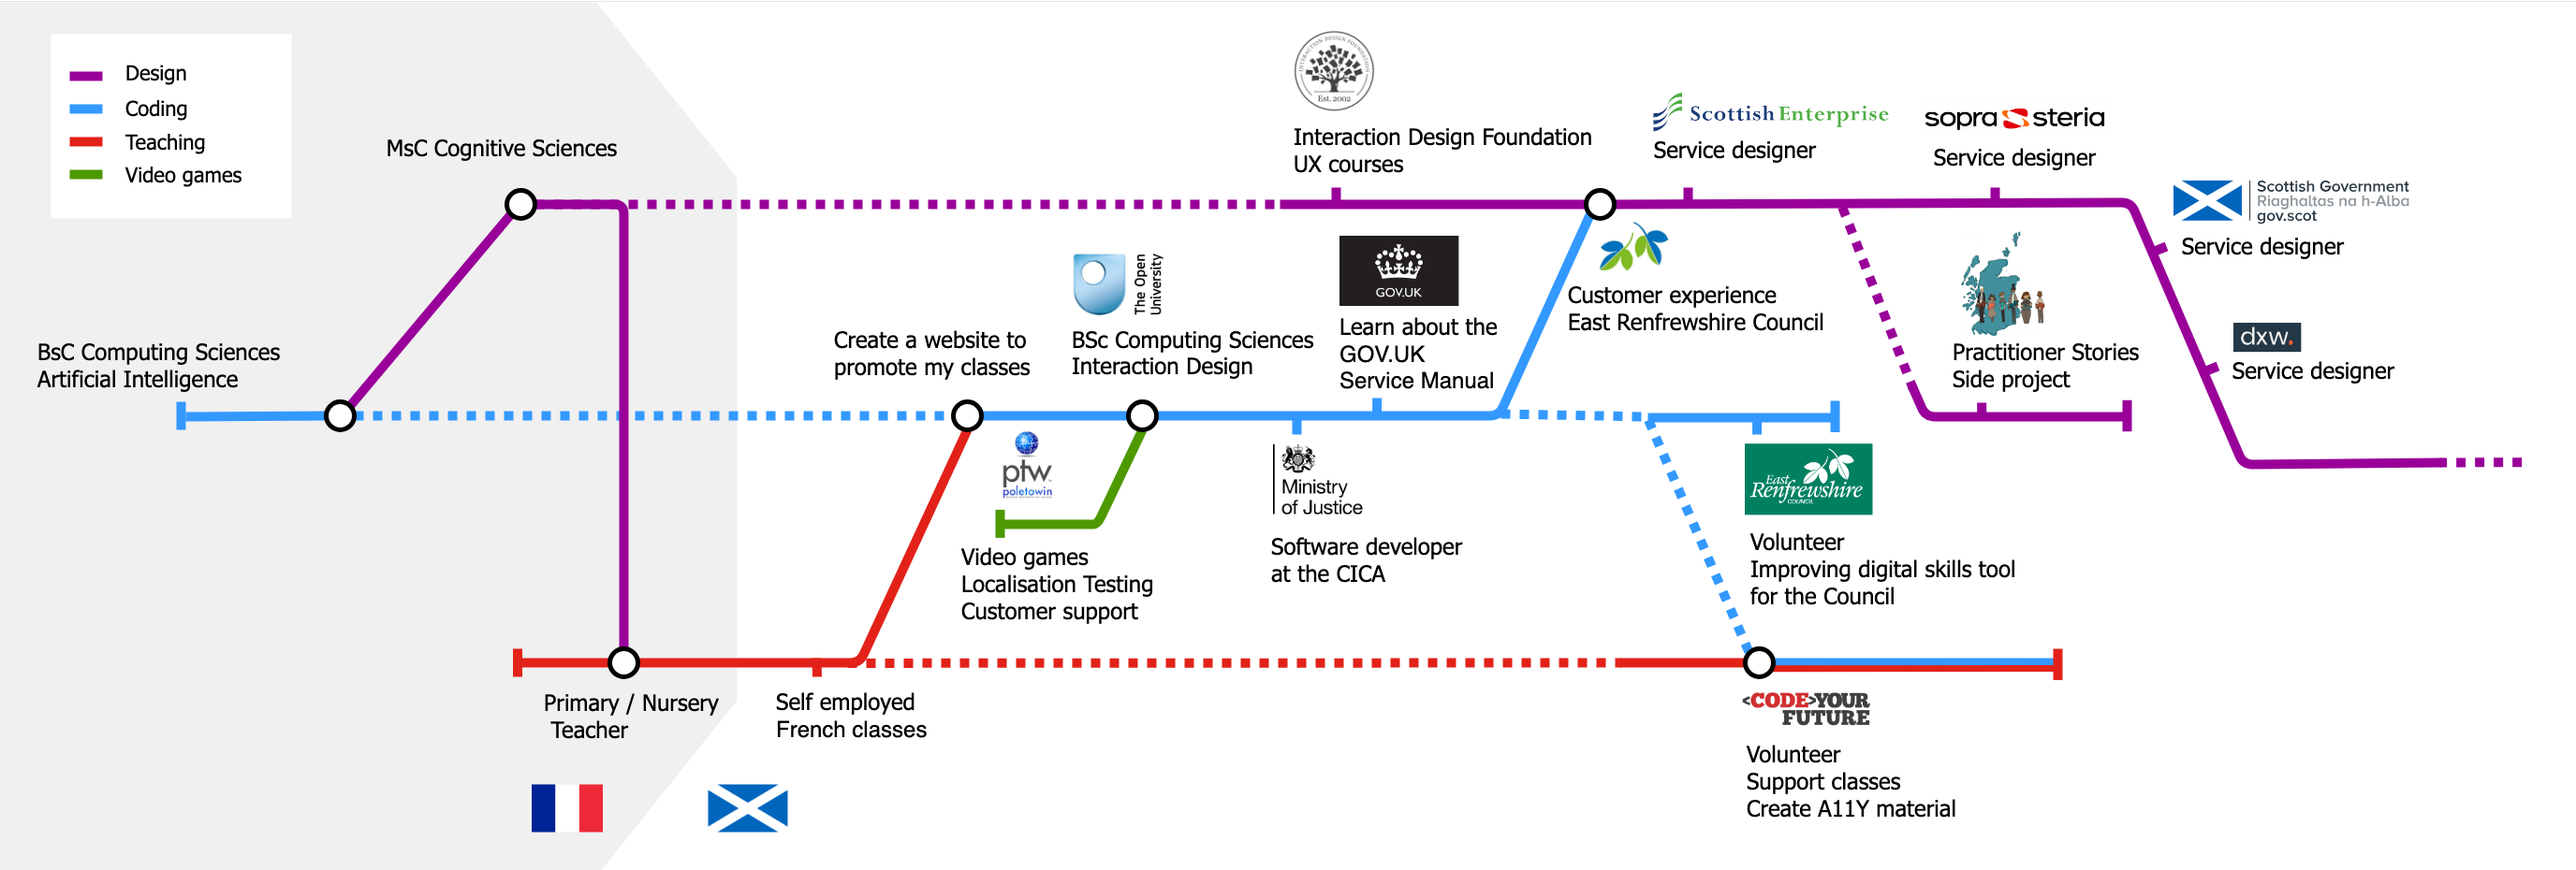
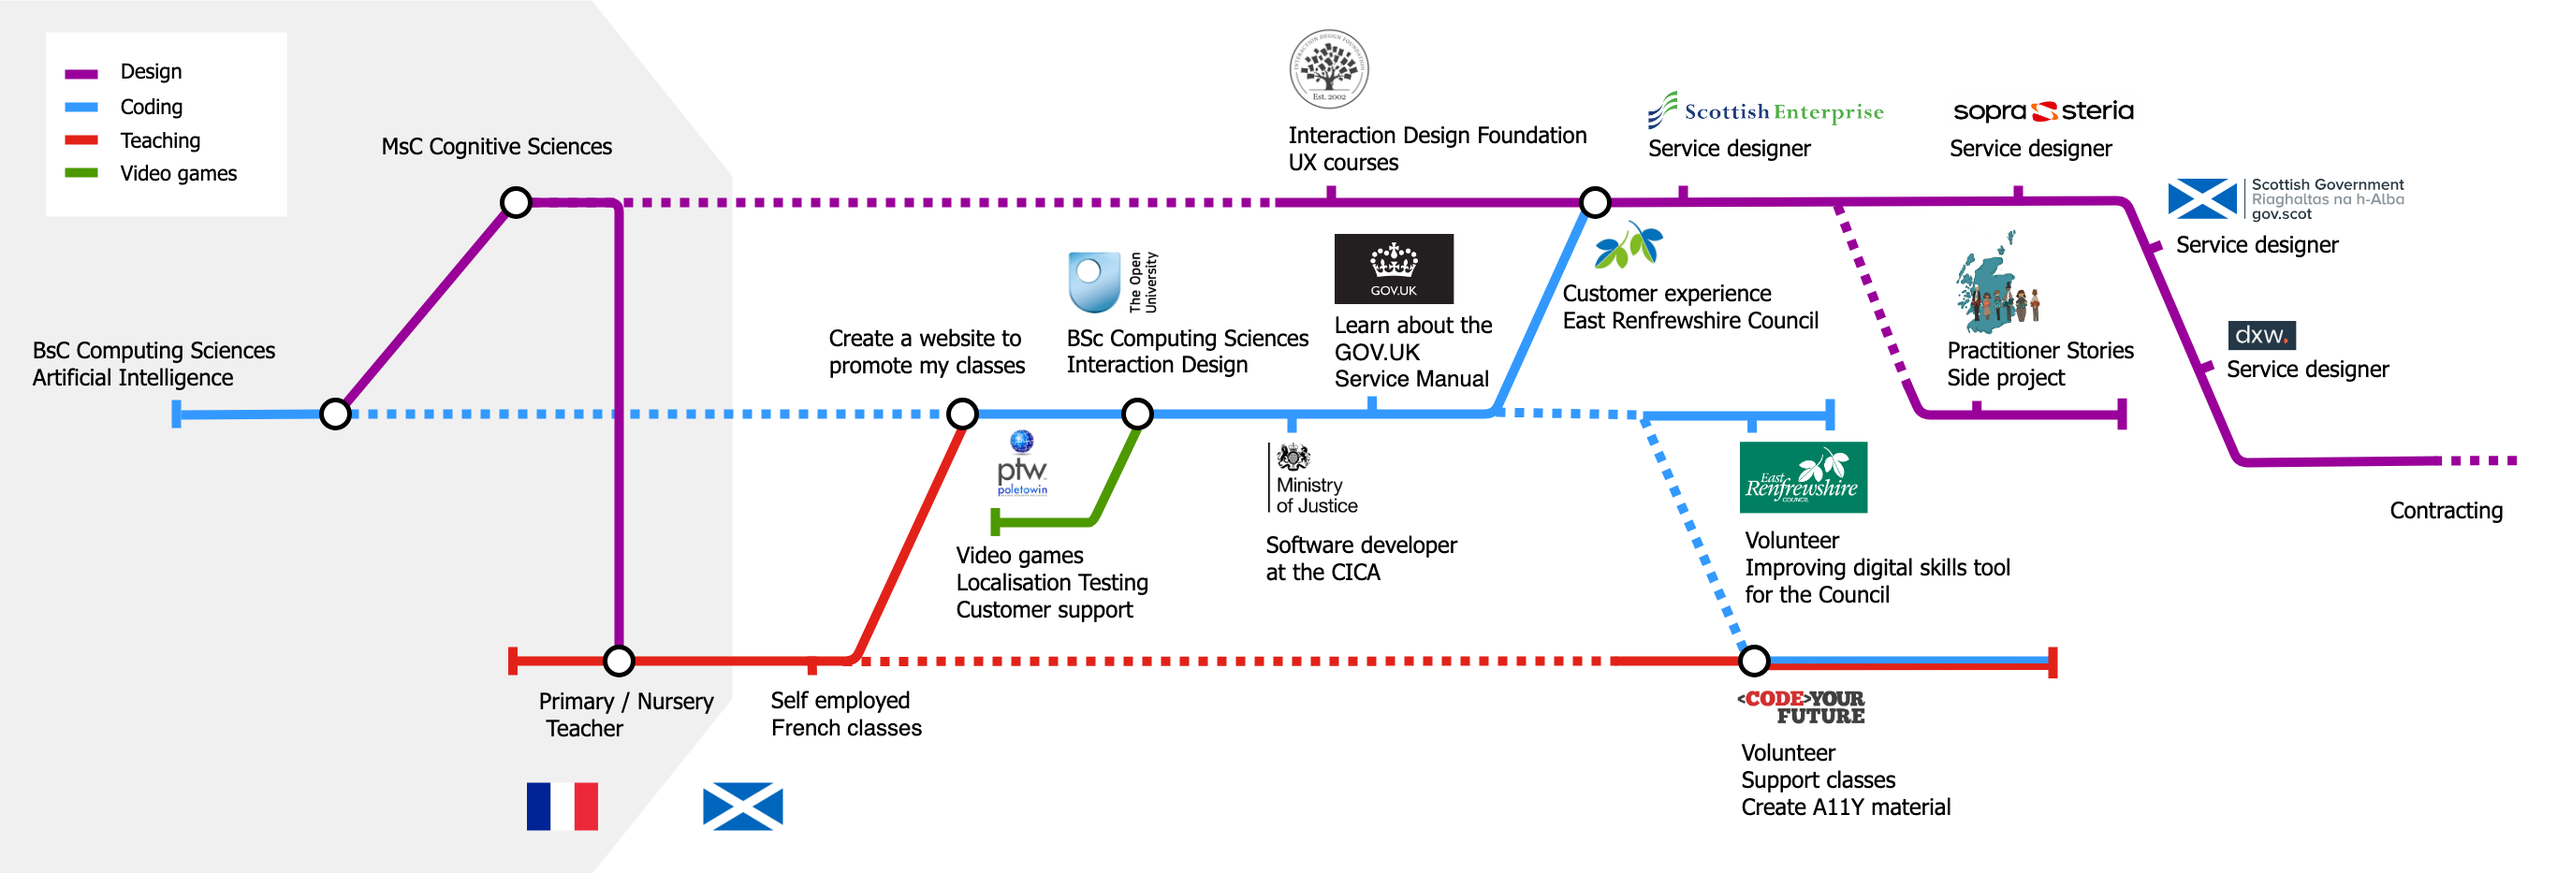
add contracting

diff --git a/cv.html b/cv.html
@@ -37,6 +37,9 @@
       <h1><a class="inverted" href="assets/CV-S-Krus-July23.pdf" download="CV-S-KRUS.pdf" target="_blank" rel="noopener">Download a PDF version of my CV</a></h1>
       <p>Email: <a href="mailto:french@chezleskrus.com?Subject=Portfolio%20-%20contact" target="_blank" rel="noopener">french@chezleskrus.com</a></p>
       
+      <p class="lead">Available for remote contracts from 21 August 2023</p>
+      <br>
+
       <h2 class="alt-h2">Summary</h2>
       <br>
         <p><strong>My experience is mainly in the public sector</strong>: a local authority, the Scottish Government and the Central Government (Ministry of Justice and the Department for Education).</p>
@@ -44,42 +47,40 @@
         <p><strong>I have experience of the service standards assessments at every stage</strong>, some on the GOV.UK one and others on the Scottish version of it: the Digital Scotland Service Standard (DSSS).</p>
         <p><strong>I've used the GOV.UK Design system and its prototype kit</strong> which I customised while working in a local authority.</p>
         <p><strong>For all projects, I try to be as inclusive as possible and design with accessibility in mind</strong> right from the start. </p>
-
+        <br>
       <h2 class="alt-h2">Work</h2>
 
-      <h3>Senior Service Designer</h3>
-      <p class="date">February 23 - present | dxw - Remote</p>
-
-      <p>Work in multidisciplinary teams to create products and services that meet the needs of the different people who will use and be affected by them, and help clients achieve their intended outcomes.</p>
-      <p>Understand and frame the problem, support research, design and facilitate workshops and create the necessary outputs to move projects forward.</p>
+      <h3>dxw: senior service designer</h3>
+      <p class="date">February 23 - August 23 | Remote</p>
+      <p>Work in multidisciplinary teams for the Department for Education to create products and services that meet the needs of the different people who will use and be affected by them, and help clients achieve their intended outcomes.</p>
+      <p>Frame the problem, support research, design and facilitate workshops, create outputs to move projects forward.</p>
       <p>Use a range of approaches to create and communicate clear and compelling recommendations, making sure they reach and influence the right people.</p>
 
 
-      <h3>Senior Service Designer</h3>
-      <p class="date">August 22 - January 23 | Scottish Government - Glasgow</p>
+      <h3>Scottish Government: senior service designer</h3>
+      <p class="date">August 22 - January 23 | Glasgow</p>
       <p>Lead the design and implementation of services, strategies, and policies to ensure business requirements and user needs are being met.</p>
       <p>Champion design for users who require assisted digital support and / or accessibility technologies to access a service.</p>
       <p>Contribute to the Digital Data and Technology (DDaT) community events, and review processes, tools and guidance.</p>
 
 
-      <h3>Senior Service Designer</h3>
-      <p class="date">July 21 - July 22 | Sopra Steria - Remote</p>
-      <p>Lead the Service Design activities on Scottish Government projects.</p>
+      <h3>Sopra Steria: senior service designer</h3>
+      <p class="date">July 21 - July 22 | Remote</p>
+      <p>Lead the Service Design on Scottish Government projects.</p>
       <p>Improve the Service Design discipline, shape the tools and approaches used.</p>
-      <p>Mentor colleagues, create resources and presentations around accessibility and inclusion.</p>
+      <p>Mentor colleagues, create resources around accessibility and inclusion.</p>
       <p>Contribute to the creation of case studies, tender responses and client proposals.</p>
 
 
-      <h3>Service Designer</h3>
-      <p class="date">May 19 - July 21 | Scottish Enterprise - Glasgow</p>
-      <p>Part of a team that drives development of online services</p>
+      <h3>Scottish Enterprise: service designer</h3>
+      <p class="date">May 19 - July 21 | Glasgow</p>
       <p>Create user-focused digital projects by analysing data and conducting research sessions to identify key service needs.</p>
       <p>Produce service blueprints, personas and user journeys for the design of end-to-end services.</p>
       <p>Make sure that the end to end journey is accessible and look at offline alternatives</p>
 
 
-      <h3>Digital Customer Experience Project Officer</h3>
-      <p class="date">September 18 - February 19 | East Renfrewshire Council - Barrhead</p>
+      <h3>East Renfrewshire Council: digital customer experience project officer</h3>
+      <p class="date">September 18 - February 19 | Barrhead</p>
       <p>Raise awareness of Accessibility issues and how to solve them.</p>
       <p>Advocate Design Principles and GOV.UK ways of working across all digital processes. </p>
       <p>Introduce the GOV.UK prototype kit to create and code High Fidelity prototypes with Council branding.</p>
@@ -87,19 +88,19 @@
       <p>Work with IT to ensure cross browsers / devices compatibility and progressive enhancement.</p>
       
       
-      <h3>Software Developer - UX Design</h3>
-      <p class="date">June 16 - September 18 | Ministry of Justice (Criminal Injuries Compensation Authority) - Glasgow</p>
+      <h3>Ministry of Justice (Criminal Injuries Compensation Authority): Software Developer - UX Design</h3>
+      <p class="date">June 16 - September 18 | Glasgow</p>
       <p>Assist the design, coding, and testing of technical solutions, while following the Government Digital Service guidelines.</p>
       <p>Create high-fidelity prototype used for usability testing.</p>
       <p>Design the guidance for the Customer Support staff, to contribute towards their training and up skilling.</p>
       <p>Use Agile and Scrum framework.</p>
 
-      <h3>French Speaking Technical Support Representative</h3>
-      <p class="date">October 14 - September 15 | Pole to Win International - Glasgow</p>
+      <h3>Pole to Win International: French speaking technical support representative</h3>
+      <p class="date">October 14 - September 15 | Glasgow</p>
       <p>Support via phone and email in both English and French for customer seeking technical assistance for PC, mobiles and consoles video games. Carry out research to troubleshoot customer's technical problems. Train new colleagues. Keep the internal wiki up to date with the troubleshooting steps and templates used for customers.</p>
       
-      <h3>French Localisation Games Tester</h3>
-      <p class="date">July - September 14 | Pole to Win International - Glasgow</p>
+      <h3>Pole to Win International: French localisation games tester</h3>
+      <p class="date">July - September 14 | Glasgow</p>
       <p>Quality control of the translation of video games, ad hoc translation and ensuring manufacturer's guidelines are adhered to.</p>
 
 

diff --git a/index.html b/index.html
@@ -35,6 +35,7 @@
           <p>I'm Stéphanie, a French native designer with a strong focus on accessibility, inclusion and service design.</p>
           <p>I live in Scotland. Most of my work is in the public sector.</p>
           <p><img  class="profile" src="assets/images/profile-BW.jpg" alt="my profile picture"/></p>
+          <p class="lead">Available for remote contracts from 21 August 2023.</p>
           
 
           <h2>What I do</h2>

diff --git a/assets/styles/myCss.css b/assets/styles/myCss.css
@@ -175,6 +175,8 @@ main {
   font-family: 'Roboto Condensed','Roboto',Helvetica,Arial,sans-serif;
   color: #5a5a5a;
   font-weight: 700; }
+.cv h3 {
+  font-size: 1.2em; }
 
 /* ----------------------------------------------  Footer  ---------------------------------------------- */
 footer {

diff --git a/assets/styles/myCss.scss b/assets/styles/myCss.scss
@@ -243,6 +243,9 @@ main {
         color: #5a5a5a;
         font-weight: 700;
     }
+    h3 {
+        font-size: 1.2em;
+    }
 }
 
 
